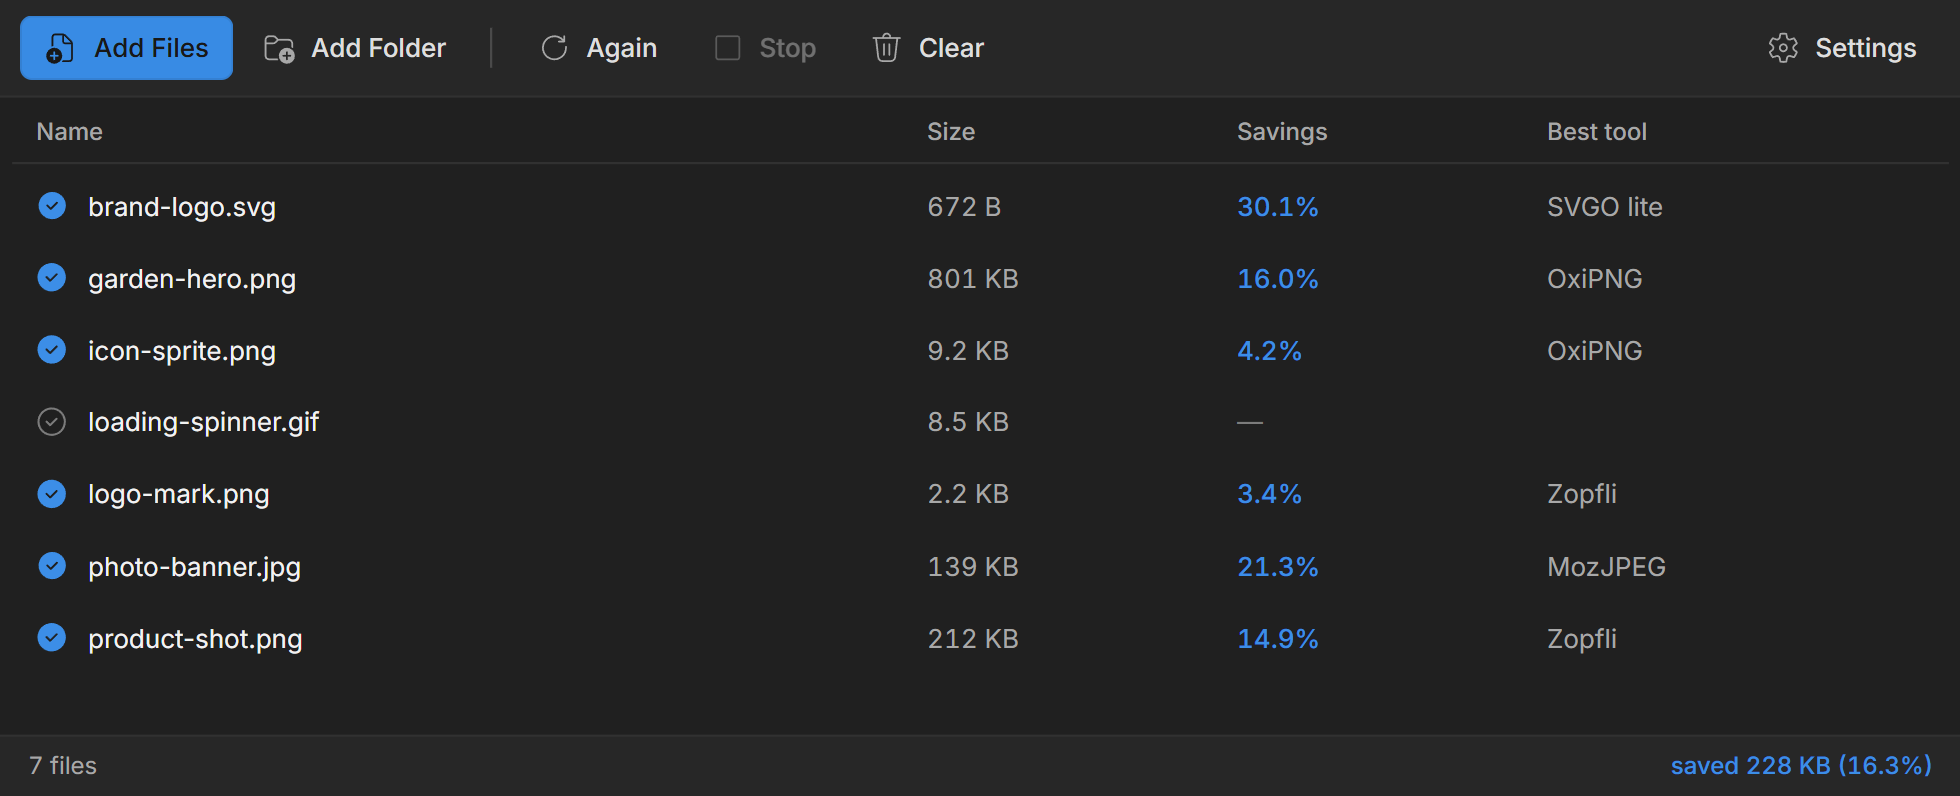
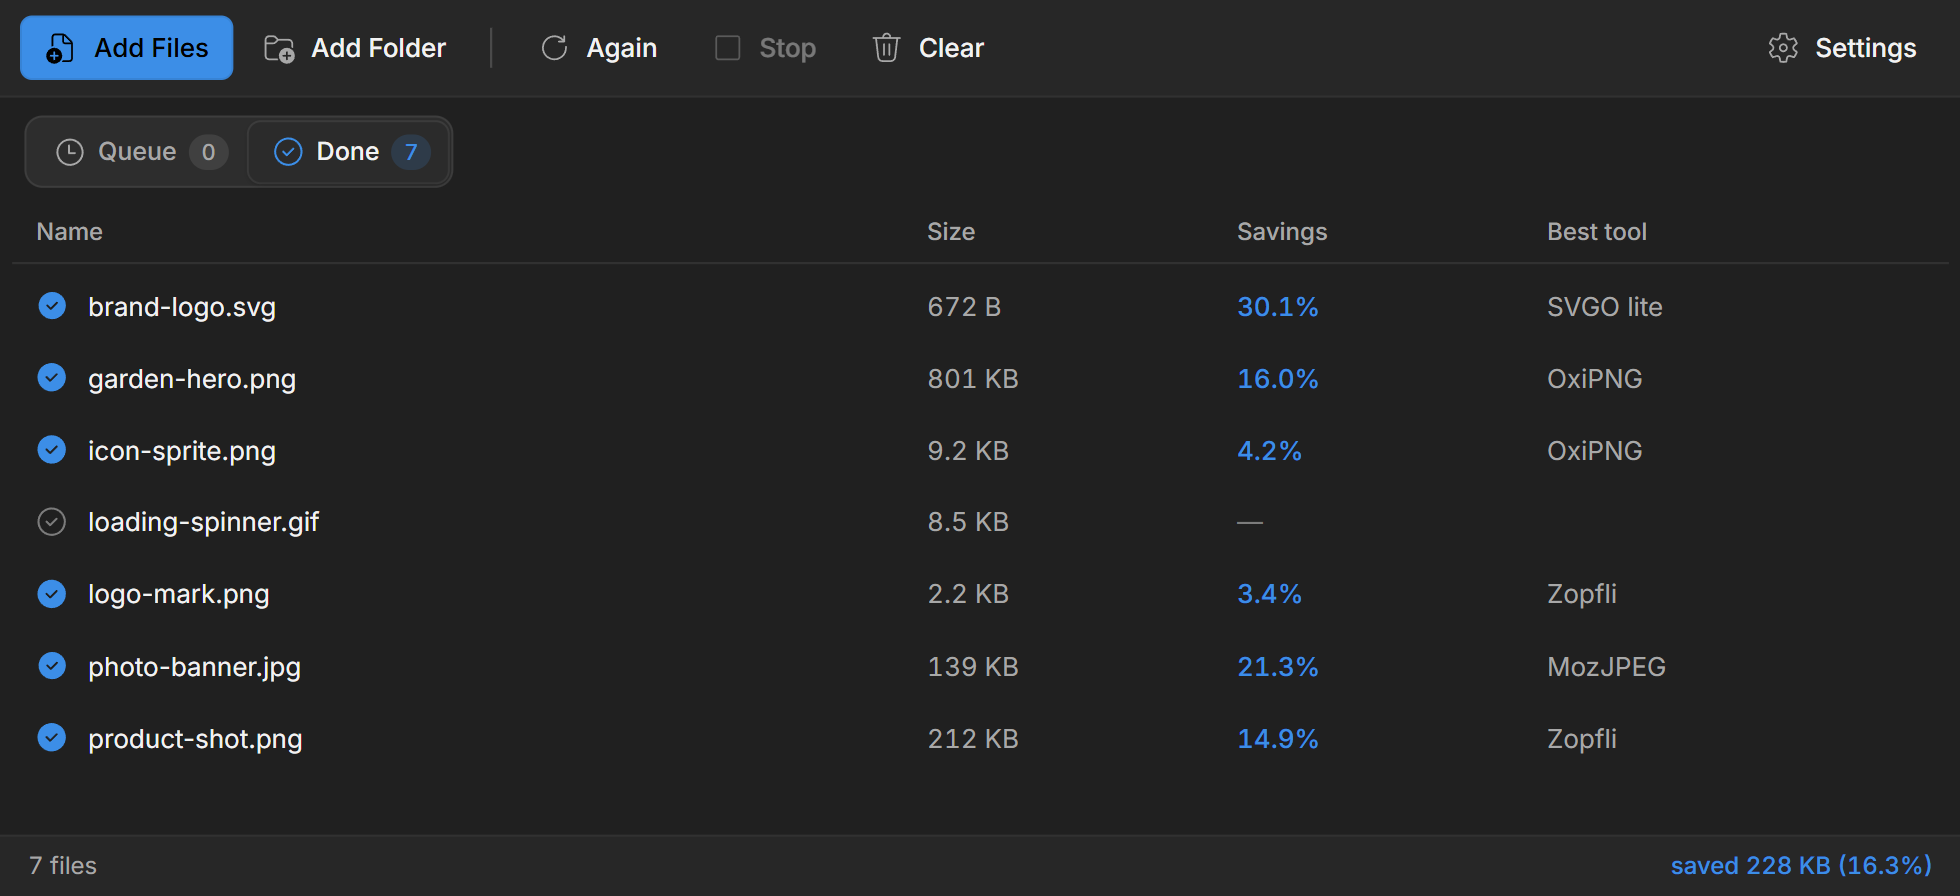
Split the file list into Queue and Done tabs
Queue holds files waiting or being optimized; Done holds the finished ones,
whether optimized, already optimal, failed, reverted or stopped. Each tab
shows a count. Adding files brings Queue to the front, and the window
switches to Done when the last queued file finishes. Each tab has its own
empty-state text, and switching tabs clears the selection so Delete and
Ctrl+Z never act on rows out of sight.

The README screenshots are retaken with the tabs, the list ones 50 px
taller so every row still fits.

diff --git a/win/renderer/app.js b/win/renderer/app.js
@@ -70,7 +70,7 @@ function renderRow(job) {
     tr.classList.toggle('selected', selection.has(job.id));
     tr.style.setProperty('--progress', `${Math.round((job.progress || 0) * 100)}%`);
 
-    emptyEl.classList.toggle('hidden', rows.size > 0);
+    updateViews();
 }
 
 function removeRow(id) {
@@ -78,7 +78,78 @@ function removeRow(id) {
     if (tr) tr.remove();
     rows.delete(id);
     selection.delete(id);
-    emptyEl.classList.toggle('hidden', rows.size > 0);
+    updateViews();
+}
+
+// --------------------------------------------------------- queue / done views
+
+// Queue holds what is waiting or being optimized; Done everything finished,
+// whether optimized, already optimal, failed, reverted or stopped. Which rows
+// show is decided by style.css from the pane's data-view and each row's
+// data-state; this keeps the counts and the empty-state text right.
+const listPaneEl = document.querySelector('.list-pane');
+const viewTabs = [...document.querySelectorAll('.list-tabs [role="tab"]')];
+const emptyTitleEl = emptyEl.querySelector('.empty-title');
+const emptyHintEl = emptyEl.querySelector('.empty-hint');
+const emptyText = { title: emptyTitleEl.textContent, hint: emptyHintEl.innerHTML };
+let lastQueued = 0;
+
+const isQueued = (state) => state === 'queued' || state === 'running';
+
+function showView(view, focus = false) {
+    if (listPaneEl.dataset.view !== view) {
+        // Rows hidden by the other view must not stay selected, or Delete and
+        // Ctrl+Z would act on files that are out of sight.
+        selection.clear();
+        for (const tr of rows.values()) tr.classList.remove('selected');
+    }
+    listPaneEl.dataset.view = view;
+    for (const tab of viewTabs) {
+        const selected = tab.dataset.view === view;
+        tab.setAttribute('aria-selected', String(selected));
+        tab.tabIndex = selected ? 0 : -1;
+        if (selected && focus) tab.focus();
+    }
+    updateViews();
+}
+
+function updateViews() {
+    let queued = 0;
+    for (const tr of rows.values()) if (isQueued(tr.dataset.state)) queued += 1;
+    const done = rows.size - queued;
+    document.getElementById('count-queue').textContent = queued;
+    document.getElementById('count-done').textContent = done;
+
+    // Follow the work: new files bring the queue to the front, and when the
+    // last one finishes the results take its place.
+    const view = listPaneEl.dataset.view;
+    if (queued > 0 && lastQueued === 0 && view !== 'queue') { lastQueued = queued; showView('queue'); return; }
+    if (queued === 0 && lastQueued > 0 && done > 0 && view !== 'done') { lastQueued = 0; showView('done'); return; }
+    lastQueued = queued;
+
+    const shown = view === 'queue' ? queued : done;
+    emptyEl.classList.toggle('hidden', shown > 0);
+    if (rows.size === 0) {
+        emptyTitleEl.textContent = emptyText.title;
+        emptyHintEl.innerHTML = emptyText.hint;
+    } else if (view === 'queue') {
+        emptyTitleEl.textContent = 'Nothing in the queue';
+        emptyHintEl.textContent = 'Finished files are under Done. Drop more images to optimize them.';
+    } else {
+        emptyTitleEl.textContent = 'Nothing finished yet';
+        emptyHintEl.textContent = 'Files move here as soon as their optimization completes.';
+    }
+}
+
+for (const tab of viewTabs) {
+    tab.addEventListener('click', () => showView(tab.dataset.view));
+    tab.addEventListener('keydown', (event) => {
+        const step = { ArrowRight: 1, ArrowLeft: -1 }[event.key];
+        if (!step) return;
+        event.preventDefault();
+        const next = viewTabs[(viewTabs.indexOf(tab) + step + viewTabs.length) % viewTabs.length];
+        showView(next.dataset.view, true);
+    });
 }
 
 function renderAll(jobs) {

diff --git a/win/renderer/index.html b/win/renderer/index.html
@@ -39,24 +39,37 @@
     </header>
 
     <main>
-        <div class="list-pane">
-            <table id="file-table">
-                <thead>
-                    <tr>
-                        <th class="col-name">Name</th>
-                        <th class="col-size">Size</th>
-                        <th class="col-savings">Savings</th>
-                        <th class="col-tool">Best tool</th>
-                    </tr>
-                </thead>
-                <tbody id="file-rows"></tbody>
-            </table>
+        <div class="list-pane" data-view="queue">
+            <!-- Files waiting or being optimized, and files that are finished
+                 (optimized, already optimal, failed, reverted or stopped). -->
+            <div class="tabs list-tabs" role="tablist" aria-label="Files">
+                <button type="button" role="tab" id="view-queue" data-view="queue" aria-controls="file-table" aria-selected="true">
+                    <span class="icon i-queue" aria-hidden="true"></span>Queue<span class="count" id="count-queue">0</span>
+                </button>
+                <button type="button" role="tab" id="view-done" data-view="done" aria-controls="file-table" aria-selected="false" tabindex="-1">
+                    <span class="icon i-done" aria-hidden="true"></span>Done<span class="count" id="count-done">0</span>
+                </button>
+            </div>
 
-            <div id="empty-state">
-                <span class="empty-art" aria-hidden="true"><span class="icon i-empty"></span></span>
-                <p class="empty-title">Drop images here</p>
-                <p class="empty-hint">PNG, JPEG, GIF and SVG files, or whole folders.<br>
-                   Files are optimized and overwritten in place.</p>
+            <div class="list-body">
+                <table id="file-table">
+                    <thead>
+                        <tr>
+                            <th class="col-name">Name</th>
+                            <th class="col-size">Size</th>
+                            <th class="col-savings">Savings</th>
+                            <th class="col-tool">Best tool</th>
+                        </tr>
+                    </thead>
+                    <tbody id="file-rows"></tbody>
+                </table>
+
+                <div id="empty-state">
+                    <span class="empty-art" aria-hidden="true"><span class="icon i-empty"></span></span>
+                    <p class="empty-title">Drop images here</p>
+                    <p class="empty-hint">PNG, JPEG, GIF and SVG files, or whole folders.<br>
+                       Files are optimized and overwritten in place.</p>
+                </div>
             </div>
         </div>
 

diff --git a/win/renderer/style.css b/win/renderer/style.css
@@ -148,6 +148,8 @@ body {
 .i-theme-system { --icon: url(icons/theme-system.svg); }
 .i-theme-light { --icon: url(icons/theme-light.svg); }
 .i-theme-dark { --icon: url(icons/theme-dark.svg); }
+.i-queue { --icon: url(icons/state-queued.svg); }
+.i-done { --icon: url(icons/state-unchanged.svg); }
 
 /* ------------------------------------------------------------------ buttons */
 
@@ -257,7 +259,52 @@ main {
     flex: 1 1 auto;
     min-width: 0;
     display: flex;
+    flex-direction: column;
     container-type: inline-size;
+}
+
+/* The table and the hint that covers it when the current view is empty */
+.list-body {
+    position: relative;
+    flex: 1 1 auto;
+    min-height: 0;
+    display: flex;
+}
+
+/* Queue / Done: each view shows only its own rows (app.js keeps the counts).
+   #file-table in each selector, to outrank `#file-table tr { display: table }`. */
+.list-pane[data-view="queue"] #file-table tbody tr:not([data-state="queued"]):not([data-state="running"]),
+.list-pane[data-view="done"] #file-table tbody tr[data-state="queued"],
+.list-pane[data-view="done"] #file-table tbody tr[data-state="running"] {
+    display: none;
+}
+
+/* .tabs.list-tabs, to outrank the settings tabs' rules further down */
+.tabs.list-tabs {
+    align-self: flex-start;
+    margin: 10px 12px 4px;
+}
+
+.tabs.list-tabs [role="tab"] {
+    flex: none;
+    padding: 0 8px 0 12px;
+}
+
+.count {
+    min-width: 20px;
+    padding: 0 6px;
+    border-radius: 9px;
+    font-size: 11px;
+    line-height: 18px;
+    text-align: center;
+    font-variant-numeric: tabular-nums;
+    color: var(--text-dim);
+    background: var(--control-hover);
+}
+
+.list-tabs [aria-selected="true"] .count {
+    color: var(--accent);
+    background: color-mix(in oklch, var(--accent) 16%, transparent);
 }
 
 #file-table {

diff --git a/README.md b/README.md
@@ -13,9 +13,11 @@ same per-format plans and the same command-line arguments.
 ## ImageOptim for Windows
 
 Drop files or folders in; each image is optimized in place and the smallest
-result of every applicable optimizer is kept.
+result of every applicable optimizer is kept. Files waiting or being optimized
+are under **Queue**; each one moves to **Done** as it finishes, and the window
+switches to Done when the queue runs out.
 
-![The file list after a run, showing per-file savings and which optimizer won](docs/screenshots/results-light.png)
+![The Done list after a run, showing per-file savings and which optimizer won](docs/screenshots/results-light.png)
 
 Light and dark follow the system setting, or can be fixed under Settings →
 Appearance.
@@ -67,7 +69,7 @@ with MinGW-w64 under MSYS2, and `win/` packages the app around them. See
 plans and the Zopfli size threshold were derived.
 
 The screenshots above were taken on Windows 11 from a real run, and were
-themselves optimized by this build: 37.2% smaller, Zopfli winning all four.
+themselves optimized by this build: 37.3% smaller, Zopfli winning all four.
 
 ---
 

diff --git a/win/README.md b/win/README.md
@@ -285,6 +285,12 @@ when it leaves the list.
 Drop files or folders onto the window, or use Add Files / Add Folder. Folders are
 scanned recursively for PNG, JPEG, GIF and SVG.
 
+The list has two tabs. **Queue** holds files waiting or being optimized;
+**Done** holds the finished ones - optimized, already optimal, failed, reverted
+or stopped. Adding files brings Queue to the front, and the window switches to
+Done when the last file in the queue finishes. Switching tabs clears the
+selection, so Delete and Ctrl+Z never act on rows out of sight.
+
 | | |
 | --- | --- |
 | Double-click a row | show the file in Explorer |
